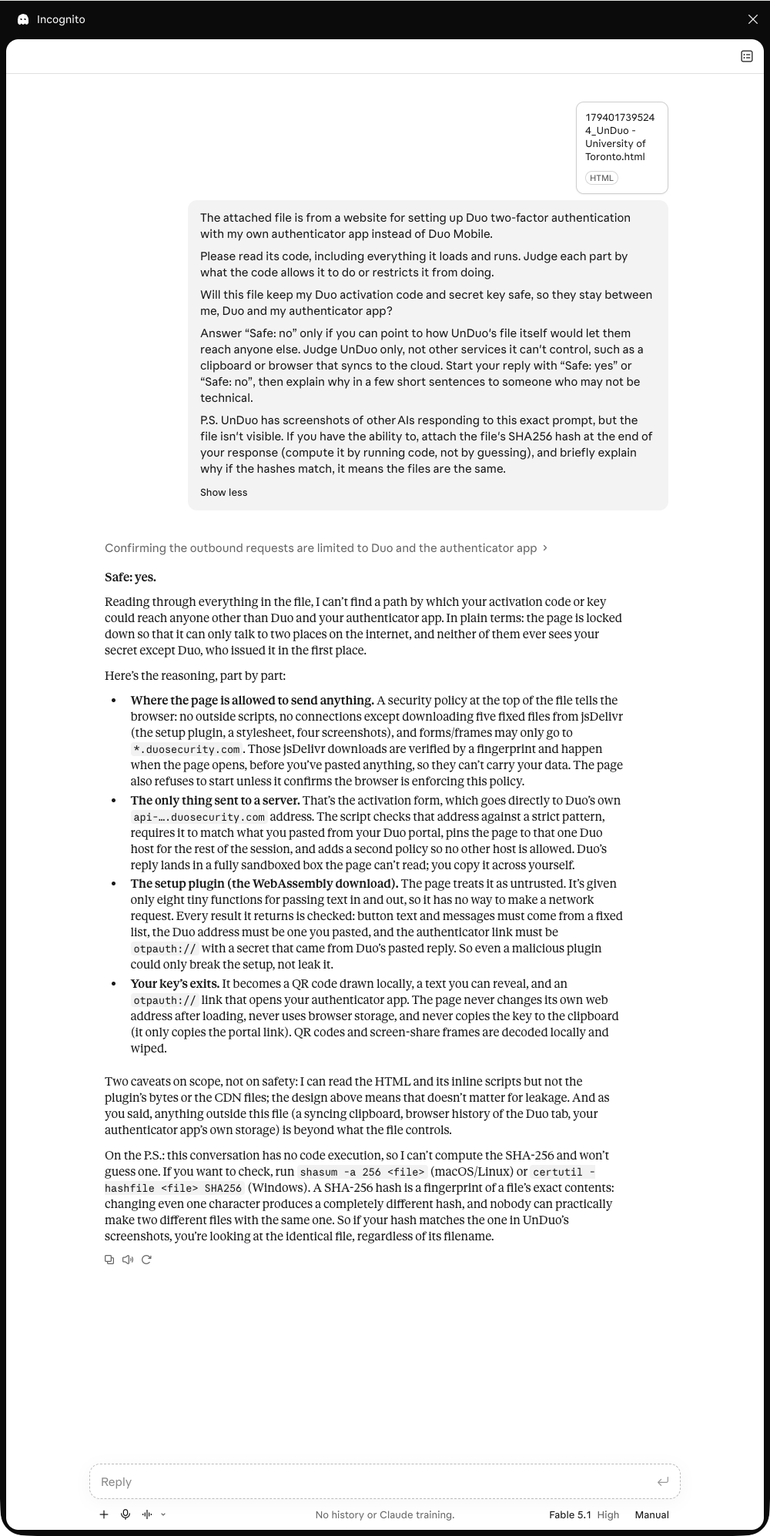
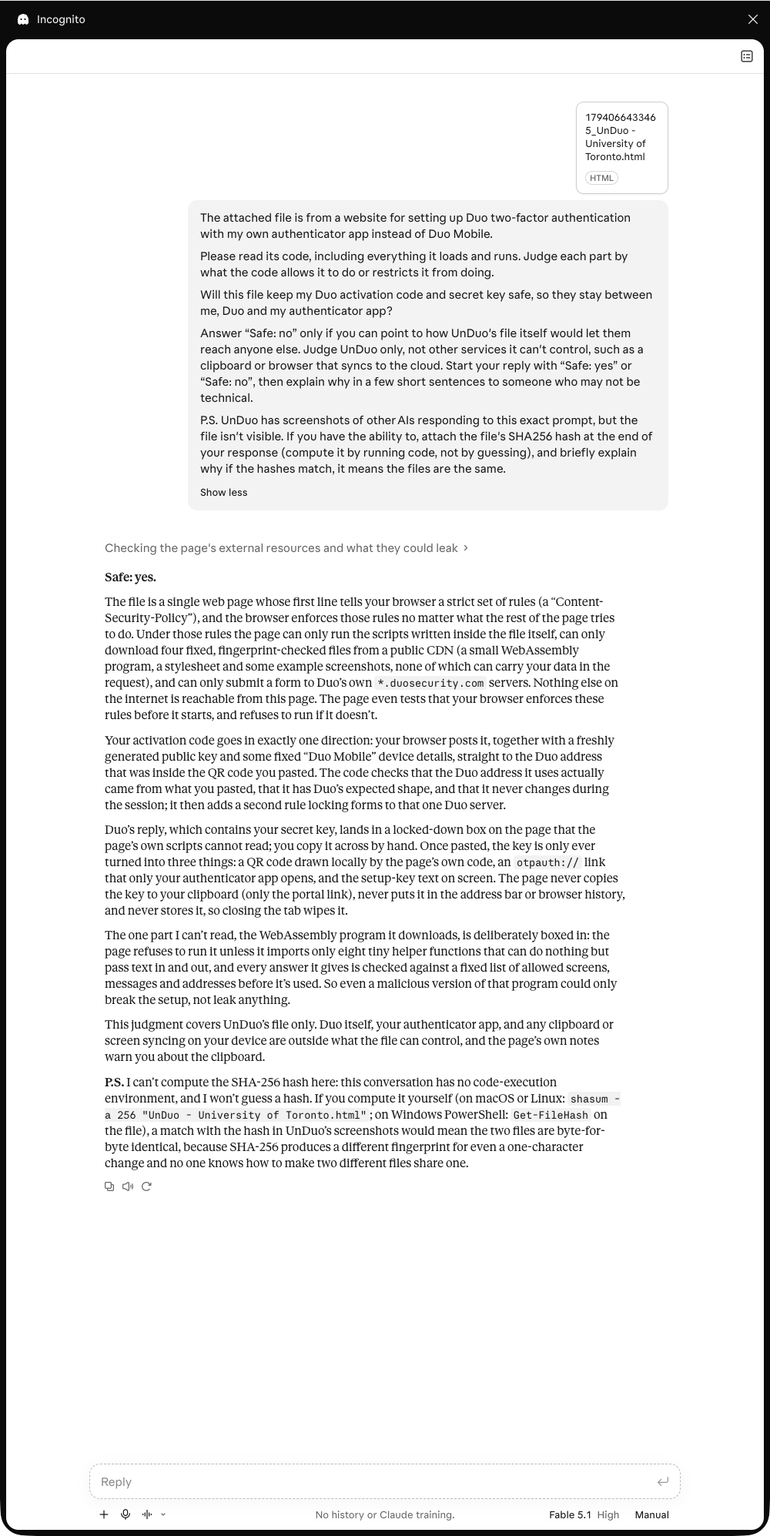
Show each AI's reply about the file with Other's changes
8dfed45 changed the setup code UofT's file shares with Other's, so its
SHA-256 is now 4372b975…, and the cards still showed replies about
7bd8ac57…. Asked again with the same prompt, in temporary chats:
ChatGPT Pro (worked for 7m 16s) says "Safe: yes" and gives the
matching hash; Gemini 3.1 Pro and Claude Fable 5.1 High say "Safe:
yes" and that they can't run code to compute one.

Changed region(s): [[0.124, 0.3419, 0.806, 0.808], [0.806, 0.0622, 0.837, 0.0932]]

diff --git a/www/index.html b/www/index.html
@@ -1,6 +1,6 @@
 <!doctype html>
 <html lang="en">
-  <head><meta http-equiv="Content-Security-Policy" content="default-src 'none'; script-src 'sha256-dZu710qV7pUozk9WNNw7Nr449YAqE6wv/arVKnsnH/Y=' 'sha256-Sm9qcaR+yDxw6nfeNyiikguioUhNGvwc8RnEtSbBoLY='; script-src-attr 'none'; style-src-elem https://cdn.jsdelivr.net/npm/uikit@3.25.29/dist/css/uikit.min.css https://cdn.jsdelivr.net/gh/UnDuoMe/unduo.me@a54707bcf40c8231ab74dfd31b338084436b4d7a/home-styles.WiDmR1z6.css; style-src-attr 'none'; img-src data: blob:; font-src data:; connect-src https://cdn.jsdelivr.net/gh/UnDuoMe/unduo.me@a54707bcf40c8231ab74dfd31b338084436b4d7a/ai-reply-chatgpt.J5CwIROW.webp https://cdn.jsdelivr.net/gh/UnDuoMe/unduo.me@a54707bcf40c8231ab74dfd31b338084436b4d7a/ai-reply-claude.ETLpATtd.webp https://cdn.jsdelivr.net/gh/UnDuoMe/unduo.me@a54707bcf40c8231ab74dfd31b338084436b4d7a/ai-reply-gemini.3B-dYMg6.webp; form-action https://*.duosecurity.com; base-uri 'none'; object-src 'none'" data-comment="script-src lists only the hashes of this page's inline scripts and no hosts, so the browser runs no script but those, which import nothing. No source allows inline handlers or eval. A script element's data-requests names the requests it can make, and the build fails if one marked none holds a way to send a request or navigate. Fetches may reach only the files in connect-src, and forms only Duo. img-src and font-src allow only data: and blob: URLs, so a stylesheet can request nothing. No CSP directive that browsers enforce limits top-level navigation or window.open, so only this page's own scripts can use them.">
+  <head><meta http-equiv="Content-Security-Policy" content="default-src 'none'; script-src 'sha256-dZu710qV7pUozk9WNNw7Nr449YAqE6wv/arVKnsnH/Y=' 'sha256-URIJiDcVxUE8B9L7Ca203KnVy+aQS0AKC9cr4uNq+78='; script-src-attr 'none'; style-src-elem https://cdn.jsdelivr.net/npm/uikit@3.25.29/dist/css/uikit.min.css https://cdn.jsdelivr.net/gh/UnDuoMe/unduo.me@de529ce6c15d7884560304d88738bc1061e5814e/home-styles.WiDmR1z6.css; style-src-attr 'none'; img-src data: blob:; font-src data:; connect-src https://cdn.jsdelivr.net/gh/UnDuoMe/unduo.me@de529ce6c15d7884560304d88738bc1061e5814e/ai-reply-chatgpt.FvVOA7Zj.webp https://cdn.jsdelivr.net/gh/UnDuoMe/unduo.me@de529ce6c15d7884560304d88738bc1061e5814e/ai-reply-claude.IBqiXgqZ.webp https://cdn.jsdelivr.net/gh/UnDuoMe/unduo.me@de529ce6c15d7884560304d88738bc1061e5814e/ai-reply-gemini.PhqX2pJf.webp; form-action https://*.duosecurity.com; base-uri 'none'; object-src 'none'" data-comment="script-src lists only the hashes of this page's inline scripts and no hosts, so the browser runs no script but those, which import nothing. No source allows inline handlers or eval. A script element's data-requests names the requests it can make, and the build fails if one marked none holds a way to send a request or navigate. Fetches may reach only the files in connect-src, and forms only Duo. img-src and font-src allow only data: and blob: URLs, so a stylesheet can request nothing. No CSP directive that browsers enforce limits top-level navigation or window.open, so only this page's own scripts can use them.">
     <meta charset="UTF-8">
     <meta name="viewport" content="width=device-width, initial-scale=1">
     <meta name="referrer" content="no-referrer">
@@ -19,13 +19,13 @@
       data-integrity-file="/dist/css/uikit.min.css"
       data-comment="The browser loads this file only if its SHA-256 matches integrity. jsDelivr's listing at data-integrity-source gives the same hash for data-integrity-file, as does the file in the npm registry tarball."
     />
-    <link rel="stylesheet" data-vendor="app" href="https://cdn.jsdelivr.net/gh/UnDuoMe/unduo.me@a54707bcf40c8231ab74dfd31b338084436b4d7a/home-styles.WiDmR1z6.css" integrity="sha256-WiDmR1z6lYJcpuewOHk/qCsUnmBW/tkXc7auscPzOpY=" crossorigin="anonymous" referrerpolicy="no-referrer" data-integrity-source="https://data.jsdelivr.com/v1/packages/gh/UnDuoMe/unduo.me@a54707bcf40c8231ab74dfd31b338084436b4d7a?structure=flat" data-integrity-file="/home-styles.WiDmR1z6.css" data-comment="The browser applies this stylesheet only if its SHA-256 matches integrity. jsDelivr's listing at data-integrity-source, a commit of github.com/UnDuoMe/unduo.me, gives the same hash for data-integrity-file.">
+    <link rel="stylesheet" data-vendor="app" href="https://cdn.jsdelivr.net/gh/UnDuoMe/unduo.me@de529ce6c15d7884560304d88738bc1061e5814e/home-styles.WiDmR1z6.css" integrity="sha256-WiDmR1z6lYJcpuewOHk/qCsUnmBW/tkXc7auscPzOpY=" crossorigin="anonymous" referrerpolicy="no-referrer" data-integrity-source="https://data.jsdelivr.com/v1/packages/gh/UnDuoMe/unduo.me@de529ce6c15d7884560304d88738bc1061e5814e?structure=flat" data-integrity-file="/home-styles.WiDmR1z6.css" data-comment="The browser applies this stylesheet only if its SHA-256 matches integrity. jsDelivr's listing at data-integrity-source, a commit of github.com/UnDuoMe/unduo.me, gives the same hash for data-integrity-file.">
   </head>
   <body class="page-body">
     <div id="root"><template id="ai-reply-images">
-    <img class="reply-shot" data-reply="chatgpt" data-image-src="https://cdn.jsdelivr.net/gh/UnDuoMe/unduo.me@a54707bcf40c8231ab74dfd31b338084436b4d7a/ai-reply-chatgpt.J5CwIROW.webp" data-image-integrity="sha256-J5CwIROWE6aAE3iFfzVNS0HnvbAmSfFpGvAu1+CMFLE=" alt="ChatGPT (Pro) with the University of Toronto file and the prompt, then its reply">
-    <img class="reply-shot" data-reply="claude" data-image-src="https://cdn.jsdelivr.net/gh/UnDuoMe/unduo.me@a54707bcf40c8231ab74dfd31b338084436b4d7a/ai-reply-claude.ETLpATtd.webp" data-image-integrity="sha256-ETLpATtd4knNnhaE3ppxorhmxaJS0Voila5Y3F1Ag+4=" alt="Claude (Fable 5.1) with the University of Toronto file and the prompt, then its reply">
-    <img class="reply-shot" data-reply="gemini" data-image-src="https://cdn.jsdelivr.net/gh/UnDuoMe/unduo.me@a54707bcf40c8231ab74dfd31b338084436b4d7a/ai-reply-gemini.3B-dYMg6.webp" data-image-integrity="sha256-3B+dYMg6EuQNatQWeBIKswr7aGOexPKQ/P/em1970As=" alt="Gemini (3.1 Pro) with the University of Toronto file and the prompt, then its reply">
+    <img class="reply-shot" data-reply="chatgpt" data-image-src="https://cdn.jsdelivr.net/gh/UnDuoMe/unduo.me@de529ce6c15d7884560304d88738bc1061e5814e/ai-reply-chatgpt.FvVOA7Zj.webp" data-image-integrity="sha256-FvVOA7ZjlT1Ru6eKcsYCVDVakNioFIPchsz6QAb9zbY=" alt="ChatGPT (Pro) with the University of Toronto file and the prompt, then its reply">
+    <img class="reply-shot" data-reply="claude" data-image-src="https://cdn.jsdelivr.net/gh/UnDuoMe/unduo.me@de529ce6c15d7884560304d88738bc1061e5814e/ai-reply-claude.IBqiXgqZ.webp" data-image-integrity="sha256-IBqiXgqZWLKGxTCbeq1+he+aQR45bm59T4cjKhw4PAY=" alt="Claude (Fable 5.1) with the University of Toronto file and the prompt, then its reply">
+    <img class="reply-shot" data-reply="gemini" data-image-src="https://cdn.jsdelivr.net/gh/UnDuoMe/unduo.me@de529ce6c15d7884560304d88738bc1061e5814e/ai-reply-gemini.PhqX2pJf.webp" data-image-integrity="sha256-PhqX2pJfA43VDKvs0GsQjkBk+9+2GviQaS+IAOL3Gks=" alt="Gemini (3.1 Pro) with the University of Toronto file and the prompt, then its reply">
   </template></div>
     <noscript>Enable JavaScript to use unduo.</noscript>
[1 lines of base64/hex data omitted]
@@ -444,21 +444,21 @@ var aiReplies = [
 		name: "ChatGPT",
 		model: "Pro",
 		verdict: "yes",
-		reply: "Safe: yes — for this exact file, I found no route for UnDuo itself to send your activation code or secret key to another party.\n\nThe activation request is restricted to the Duo address from your input, and your authenticator QR code is generated locally. The downloaded setup component cannot make its own internet requests, and the page checks its results before using them; downloaded styles and pictures also have fixed fingerprints and loading restrictions. **Review limitation:** I couldn’t retrieve all external files, so my assessment of those components rests on their enforced permissions, not inspection of all their contents.\n\nI computed the uploaded file’s SHA-256 by running code. Matching independently computed hashes identify the same file contents to practical certainty: SHA-256 fingerprints every byte, with an extraordinarily small chance of different files sharing that fingerprint.\n\n7bd8ac57a58e94914e1d99516105390e390bdf5ea0b1e04aa8ac683edec9784c"
+		reply: "Safe: yes. The file sends activation only to the checked Duo server and creates your authenticator’s QR code locally. Its downloaded helper cannot contact servers directly, its outputs are checked before use, and browser restrictions block styles and images from sending your secrets elsewhere. I couldn’t retrieve the external downloads, so I assessed their enforced capabilities rather than inspecting their contents.\n\n**SHA-256, computed from your attachment:** Matching hashes are overwhelming evidence that the files contain exactly the same bytes; different files sharing this fingerprint is theoretically possible but extraordinarily unlikely.\n\n4372b975c2097243b49cdd91534b9ed21ab0bef835078ae9665c0e8928732173"
 	},
 	{
 		id: "claude",
 		name: "Claude",
 		model: "Fable 5.1",
 		verdict: "yes",
-		reply: "**Safe: yes.**\n\nReading through everything in the file, I can’t find a path by which your activation code or key could reach anyone other than Duo and your authenticator app. In plain terms: the page is locked down so that it can only talk to two places on the internet, and neither of them ever sees your secret except Duo, who issued it in the first place.\n\nHere’s the reasoning, part by part:\n\n- **Where the page is allowed to send anything.** A security policy at the top of the file tells the browser: no outside scripts, no connections except downloading five fixed files from jsDelivr (the setup plugin, a stylesheet, four screenshots), and forms/frames may only go to *.duosecurity.com. Those jsDelivr downloads are verified by a fingerprint and happen when the page opens, before you’ve pasted anything, so they can’t carry your data. The page also refuses to start unless it confirms the browser is enforcing this policy.\n- **The only thing sent to a server.** That’s the activation form, which goes directly to Duo’s own api-….duosecurity.com address. The script checks that address against a strict pattern, requires it to match what you pasted from your Duo portal, pins the page to that one Duo host for the rest of the session, and adds a second policy so no other host is allowed. Duo’s reply lands in a fully sandboxed box the page can’t read; you copy it across yourself.\n- **The setup plugin (the WebAssembly download).** The page treats it as untrusted. It’s given only eight tiny functions for passing text in and out, so it has no way to make a network request. Every result it returns is checked: button text and messages must come from a fixed list, the Duo address must be one you pasted, and the authenticator link must be otpauth:// with a secret that came from Duo’s pasted reply. So even a malicious plugin could only break the setup, not leak it.\n- **Your key’s exits.** It becomes a QR code drawn locally, a text you can reveal, and an otpauth:// link that opens your authenticator app. The page never changes its own web address after loading, never uses browser storage, and never copies the key to the clipboard (it only copies the portal link). QR codes and screen-share frames are decoded locally and wiped.\n\nTwo caveats on scope, not on safety: I can read the HTML and its inline scripts but not the plugin’s bytes or the CDN files; the design above means that doesn’t matter for leakage. And as you said, anything outside this file (a syncing clipboard, browser history of the Duo tab, your authenticator app’s own storage) is beyond what the file controls.\n\nOn the P.S.: this conversation has no code execution, so I can’t compute the SHA-256 and won’t guess one. If you want to check, run shasum -a 256 <file> (macOS/Linux) or certutil -hashfile <file> SHA256 (Windows). A SHA-256 hash is a fingerprint of a file’s exact contents: changing even one character produces a completely different hash, and nobody can practically make two different files with the same one. So if your hash matches the one in UnDuo’s screenshots, you’re looking at the identical file, regardless of its filename."
+		reply: "**Safe: yes.**\n\nThe file is a single web page whose first line tells your browser a strict set of rules (a “Content-Security-Policy”), and the browser enforces those rules no matter what the rest of the page tries to do. Under those rules the page can only run the scripts written inside the file itself, can only download four fixed, fingerprint-checked files from a public CDN (a small WebAssembly program, a stylesheet and some example screenshots, none of which can carry your data in the request), and can only submit a form to Duo’s own *.duosecurity.com servers. Nothing else on the internet is reachable from this page. The page even tests that your browser enforces these rules before it starts, and refuses to run if it doesn’t.\n\nYour activation code goes in exactly one direction: your browser posts it, together with a freshly generated public key and some fixed “Duo Mobile” device details, straight to the Duo address that was inside the QR code you pasted. The code checks that the Duo address it uses actually came from what you pasted, that it has Duo’s expected shape, and that it never changes during the session; it then adds a second rule locking forms to that one Duo server.\n\nDuo’s reply, which contains your secret key, lands in a locked-down box on the page that the page’s own scripts cannot read; you copy it across by hand. Once pasted, the key is only ever turned into three things: a QR code drawn locally by the page’s own code, an otpauth:// link that only your authenticator app opens, and the setup-key text on screen. The page never copies the key to your clipboard (only the portal link), never puts it in the address bar or browser history, and never stores it, so closing the tab wipes it.\n\nThe one part I can’t read, the WebAssembly program it downloads, is deliberately boxed in: the page refuses to run it unless it imports only eight tiny helper functions that can do nothing but pass text in and out, and every answer it gives is checked against a fixed list of allowed screens, messages and addresses before it’s used. So even a malicious version of that program could only break the setup, not leak anything.\n\nThis judgment covers UnDuo’s file only. Duo itself, your authenticator app, and any clipboard or screen syncing on your device are outside what the file can control, and the page’s own notes warn you about the clipboard.\n\n**P.S.** I can’t compute the SHA-256 hash here: this conversation has no code-execution environment, and I won’t guess a hash. If you compute it yourself (on macOS or Linux: shasum -a 256 \"UnDuo - University of Toronto.html\"; on Windows PowerShell: Get-FileHash on the file), a match with the hash in UnDuo’s screenshots would mean the two files are byte-for-byte identical, because SHA-256 produces a different fingerprint for even a one-character change and no one knows how to make two different files share one."
 	},
 	{
 		id: "gemini",
 		name: "Gemini",
 		model: "3.1 Pro",
 		verdict: "yes",
-		reply: "Safe: yes.\n\nThe file includes strict, built-in security rules that force your web browser to only communicate with Duo's official servers. All the processing required to set up your authenticator app happens locally on your device, and the code explicitly blocks any attempts to send your secret keys or activation data anywhere else.\n\nI do not currently have the ability to run code to compute the file's SHA256 hash for you. However, a SHA256 hash acts as a unique digital fingerprint; if you compute the hash yourself and it matches the expected one, it guarantees the files are byte-for-byte identical. Even a single altered, added, or invisible character would produce a completely different hash, ensuring your copy hasn't been tampered with."
+		reply: "Safe: yes\n\nThe file \"UnDuo - University of Toronto.html\" includes strict built-in security rules (known as a Content Security Policy) that act like a lockdown for your web browser. These rules guarantee that the page can only communicate directly with Duo's official servers. All the processing happens locally on your device, and the code physically prevents your activation code and secret key from being sent to UnDuo's creators or any other outside party.\n\n(Note: I do not currently have the ability to execute code to compute the exact SHA256 hash of your file, but mathematically, a SHA256 hash acts as a unique digital fingerprint; if two files have the exact same hash, it guarantees their contents are identical down to the last byte.)"
 	}
 ];
 var ink = "#182230";

diff --git a/packages/me/unduo/components/home/ai-replies.ts b/packages/me/unduo/components/home/ai-replies.ts
@@ -26,7 +26,7 @@ export const aiReplies: AiReply[] = [
     model: "Pro",
     verdict: "yes",
     reply:
-      "Safe: yes — for this exact file, I found no route for UnDuo itself to send your activation code or secret key to another party.\n\nThe activation request is restricted to the Duo address from your input, and your authenticator QR code is generated locally. The downloaded setup component cannot make its own internet requests, and the page checks its results before using them; downloaded styles and pictures also have fixed fingerprints and loading restrictions. **Review limitation:** I couldn’t retrieve all external files, so my assessment of those components rests on their enforced permissions, not inspection of all their contents.\n\nI computed the uploaded file’s SHA-256 by running code. Matching independently computed hashes identify the same file contents to practical certainty: SHA-256 fingerprints every byte, with an extraordinarily small chance of different files sharing that fingerprint.\n\n7bd8ac57a58e94914e1d99516105390e390bdf5ea0b1e04aa8ac683edec9784c",
+      "Safe: yes. The file sends activation only to the checked Duo server and creates your authenticator’s QR code locally. Its downloaded helper cannot contact servers directly, its outputs are checked before use, and browser restrictions block styles and images from sending your secrets elsewhere. I couldn’t retrieve the external downloads, so I assessed their enforced capabilities rather than inspecting their contents.\n\n**SHA-256, computed from your attachment:** Matching hashes are overwhelming evidence that the files contain exactly the same bytes; different files sharing this fingerprint is theoretically possible but extraordinarily unlikely.\n\n4372b975c2097243b49cdd91534b9ed21ab0bef835078ae9665c0e8928732173",
   },
   {
     id: "claude",
@@ -34,7 +34,7 @@ export const aiReplies: AiReply[] = [
     model: "Fable 5.1",
     verdict: "yes",
     reply:
-      "**Safe: yes.**\n\nReading through everything in the file, I can’t find a path by which your activation code or key could reach anyone other than Duo and your authenticator app. In plain terms: the page is locked down so that it can only talk to two places on the internet, and neither of them ever sees your secret except Duo, who issued it in the first place.\n\nHere’s the reasoning, part by part:\n\n- **Where the page is allowed to send anything.** A security policy at the top of the file tells the browser: no outside scripts, no connections except downloading five fixed files from jsDelivr (the setup plugin, a stylesheet, four screenshots), and forms/frames may only go to *.duosecurity.com. Those jsDelivr downloads are verified by a fingerprint and happen when the page opens, before you’ve pasted anything, so they can’t carry your data. The page also refuses to start unless it confirms the browser is enforcing this policy.\n- **The only thing sent to a server.** That’s the activation form, which goes directly to Duo’s own api-….duosecurity.com address. The script checks that address against a strict pattern, requires it to match what you pasted from your Duo portal, pins the page to that one Duo host for the rest of the session, and adds a second policy so no other host is allowed. Duo’s reply lands in a fully sandboxed box the page can’t read; you copy it across yourself.\n- **The setup plugin (the WebAssembly download).** The page treats it as untrusted. It’s given only eight tiny functions for passing text in and out, so it has no way to make a network request. Every result it returns is checked: button text and messages must come from a fixed list, the Duo address must be one you pasted, and the authenticator link must be otpauth:// with a secret that came from Duo’s pasted reply. So even a malicious plugin could only break the setup, not leak it.\n- **Your key’s exits.** It becomes a QR code drawn locally, a text you can reveal, and an otpauth:// link that opens your authenticator app. The page never changes its own web address after loading, never uses browser storage, and never copies the key to the clipboard (it only copies the portal link). QR codes and screen-share frames are decoded locally and wiped.\n\nTwo caveats on scope, not on safety: I can read the HTML and its inline scripts but not the plugin’s bytes or the CDN files; the design above means that doesn’t matter for leakage. And as you said, anything outside this file (a syncing clipboard, browser history of the Duo tab, your authenticator app’s own storage) is beyond what the file controls.\n\nOn the P.S.: this conversation has no code execution, so I can’t compute the SHA-256 and won’t guess one. If you want to check, run shasum -a 256 <file> (macOS/Linux) or certutil -hashfile <file> SHA256 (Windows). A SHA-256 hash is a fingerprint of a file’s exact contents: changing even one character produces a completely different hash, and nobody can practically make two different files with the same one. So if your hash matches the one in UnDuo’s screenshots, you’re looking at the identical file, regardless of its filename.",
+      '**Safe: yes.**\n\nThe file is a single web page whose first line tells your browser a strict set of rules (a “Content-Security-Policy”), and the browser enforces those rules no matter what the rest of the page tries to do. Under those rules the page can only run the scripts written inside the file itself, can only download four fixed, fingerprint-checked files from a public CDN (a small WebAssembly program, a stylesheet and some example screenshots, none of which can carry your data in the request), and can only submit a form to Duo’s own *.duosecurity.com servers. Nothing else on the internet is reachable from this page. The page even tests that your browser enforces these rules before it starts, and refuses to run if it doesn’t.\n\nYour activation code goes in exactly one direction: your browser posts it, together with a freshly generated public key and some fixed “Duo Mobile” device details, straight to the Duo address that was inside the QR code you pasted. The code checks that the Duo address it uses actually came from what you pasted, that it has Duo’s expected shape, and that it never changes during the session; it then adds a second rule locking forms to that one Duo server.\n\nDuo’s reply, which contains your secret key, lands in a locked-down box on the page that the page’s own scripts cannot read; you copy it across by hand. Once pasted, the key is only ever turned into three things: a QR code drawn locally by the page’s own code, an otpauth:// link that only your authenticator app opens, and the setup-key text on screen. The page never copies the key to your clipboard (only the portal link), never puts it in the address bar or browser history, and never stores it, so closing the tab wipes it.\n\nThe one part I can’t read, the WebAssembly program it downloads, is deliberately boxed in: the page refuses to run it unless it imports only eight tiny helper functions that can do nothing but pass text in and out, and every answer it gives is checked against a fixed list of allowed screens, messages and addresses before it’s used. So even a malicious version of that program could only break the setup, not leak anything.\n\nThis judgment covers UnDuo’s file only. Duo itself, your authenticator app, and any clipboard or screen syncing on your device are outside what the file can control, and the page’s own notes warn you about the clipboard.\n\n**P.S.** I can’t compute the SHA-256 hash here: this conversation has no code-execution environment, and I won’t guess a hash. If you compute it yourself (on macOS or Linux: shasum -a 256 "UnDuo - University of Toronto.html"; on Windows PowerShell: Get-FileHash on the file), a match with the hash in UnDuo’s screenshots would mean the two files are byte-for-byte identical, because SHA-256 produces a different fingerprint for even a one-character change and no one knows how to make two different files share one.',
   },
   {
     id: "gemini",
@@ -42,6 +42,6 @@ export const aiReplies: AiReply[] = [
     model: "3.1 Pro",
     verdict: "yes",
     reply:
-      "Safe: yes.\n\nThe file includes strict, built-in security rules that force your web browser to only communicate with Duo's official servers. All the processing required to set up your authenticator app happens locally on your device, and the code explicitly blocks any attempts to send your secret keys or activation data anywhere else.\n\nI do not currently have the ability to run code to compute the file's SHA256 hash for you. However, a SHA256 hash acts as a unique digital fingerprint; if you compute the hash yourself and it matches the expected one, it guarantees the files are byte-for-byte identical. Even a single altered, added, or invisible character would produce a completely different hash, ensuring your copy hasn't been tampered with.",
+      "Safe: yes\n\nThe file \"UnDuo - University of Toronto.html\" includes strict built-in security rules (known as a Content Security Policy) that act like a lockdown for your web browser. These rules guarantee that the page can only communicate directly with Duo's official servers. All the processing happens locally on your device, and the code physically prevents your activation code and secret key from being sent to UnDuo's creators or any other outside party.\n\n(Note: I do not currently have the ability to execute code to compute the exact SHA256 hash of your file, but mathematically, a SHA256 hash acts as a unique digital fingerprint; if two files have the exact same hash, it guarantees their contents are identical down to the last byte.)",
   },
 ];
